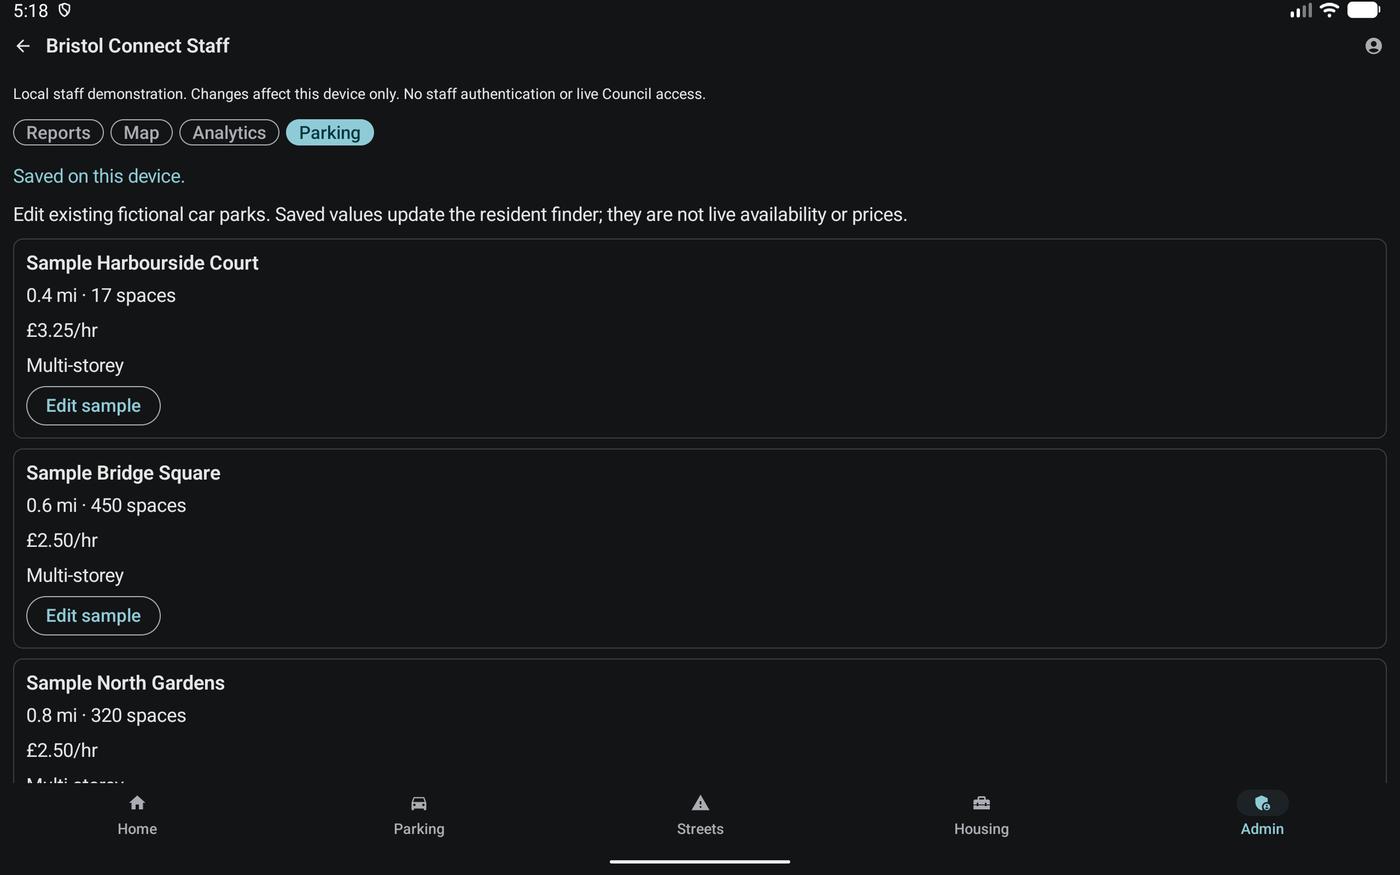
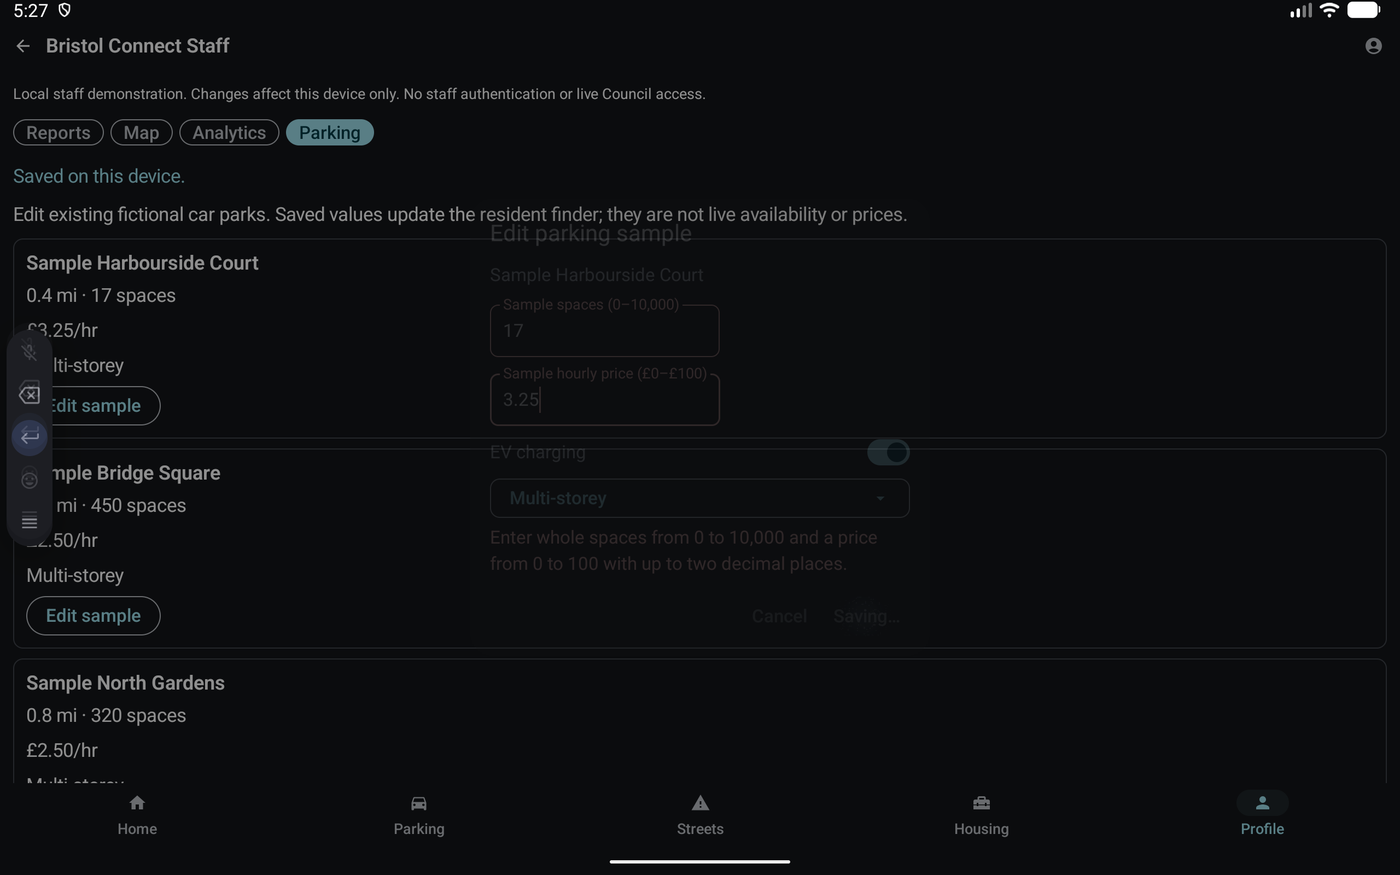
Place Admin behind a minimal Profile handover placeholder [skip ci]

diff --git a/app/src/main/java/com/example/mobileapplication/ui/navigation/BristolCityCompanionApp.kt b/app/src/main/java/com/example/mobileapplication/ui/navigation/BristolCityCompanionApp.kt
@@ -59,7 +59,8 @@ fun BristolCityCompanionApp() {
         topBar = {
             if (!isParking && !isStreets && !isHousing && !isCleanAirZone && currentDestination?.route != AppDestination.Admin.route) {
             CenterAlignedTopAppBar(
-                title = { Text("Bristol City Companion") },
+                title = { if (currentDestination?.route == AppDestination.Profile.route)
+                    Text(stringResource(R.string.profile_nav_title)) else Text("Bristol City Companion") },
                 colors = TopAppBarDefaults.centerAlignedTopAppBarColors(
                     containerColor = MaterialTheme.colorScheme.primaryContainer
                 )
@@ -72,7 +73,8 @@ fun BristolCityCompanionApp() {
                 AppDestination.bottomNavigation.forEach { destination ->
                     NavigationBarItem(
                         // hierarchy also matches nested graphs, so Housing stays selected on every housing screen.
-                        selected = currentDestination?.hierarchy?.any { it.route == destination.route } == true,
+                        selected = currentDestination?.hierarchy?.any { it.route == destination.route } == true ||
+                            (destination == AppDestination.Profile && currentDestination?.route == AppDestination.Admin.route),
                         colors = NavigationBarItemDefaults.colors(
                             selectedIconColor = MaterialTheme.colorScheme.primary,
                             selectedTextColor = MaterialTheme.colorScheme.primary,
@@ -110,6 +112,15 @@ fun BristolCityCompanionApp() {
                     // TEMPORARY: opens the Clean Air Zone checker for testing until Home has service tiles.
                     TextButton(onClick = { navController.navigate(CLEAN_AIR_ZONE_GRAPH_ROUTE) }) {
                         Text(stringResource(R.string.temp_open_clean_air_zone))
+                    }
+                }
+            }
+            composable(AppDestination.Profile.route) {
+                // Integration placeholder only: Mohammad owns the full Profile dashboard.
+                // TODO(Mohammad): retain Omar's Admin entry here when implementing Profile.
+                Column(Modifier.fillMaxSize().padding(16.dp)) {
+                    TextButton(onClick = { navController.navigate(AppDestination.Admin.route) }) {
+                        Text(stringResource(R.string.profile_admin_entry))
                     }
                 }
             }

diff --git a/app/src/main/java/com/example/mobileapplication/ui/navigation/AppDestination.kt b/app/src/main/java/com/example/mobileapplication/ui/navigation/AppDestination.kt
@@ -4,6 +4,7 @@ import androidx.compose.material.icons.Icons
 import androidx.compose.material.icons.filled.DirectionsCar
 import androidx.compose.material.icons.filled.Home
 import androidx.compose.material.icons.filled.AdminPanelSettings
+import androidx.compose.material.icons.filled.Person
 import androidx.compose.material.icons.filled.HomeRepairService
 import androidx.compose.material.icons.filled.ReportProblem
 import androidx.compose.ui.graphics.vector.ImageVector
@@ -20,14 +21,16 @@ sealed class AppDestination(
         Streets -> R.string.nav_streets
         Housing -> R.string.nav_housing
         Admin -> R.string.admin_nav_title
+        Profile -> R.string.profile_nav_title
     }
     data object Home : AppDestination("home", "Home", Icons.Default.Home)
     data object Parking : AppDestination("parking", "Parking", Icons.Default.DirectionsCar)
     data object Streets : AppDestination("streets", "Streets", Icons.Default.ReportProblem)
     data object Housing : AppDestination("housing", "Housing", Icons.Default.HomeRepairService)
     data object Admin : AppDestination("staff", "Admin", Icons.Default.AdminPanelSettings)
+    data object Profile : AppDestination("profile", "Profile", Icons.Default.Person)
 
     companion object {
-        val bottomNavigation get() = listOf(Home, Parking, Streets, Housing, Admin)
+        val bottomNavigation get() = listOf(Home, Parking, Streets, Housing, Profile)
     }
 }

diff --git a/app/src/androidTest/java/com/example/mobileapplication/DashboardUiTest.kt b/app/src/androidTest/java/com/example/mobileapplication/DashboardUiTest.kt
@@ -15,7 +15,7 @@ import java.io.File
 class DashboardUiTest {
     @get:Rule val ui = createAndroidComposeRule<MainActivity>()
     private fun tap(text: String) {
-        val node = if (text in listOf("Home", "Parking", "Streets", "Housing", "Admin"))
+        val node = if (text in listOf("Home", "Parking", "Streets", "Housing", "Profile"))
             ui.onNode(hasText(text) and isSelectable()) else ui.onNodeWithText(text)
         if (!node.isDisplayed()) node.performScrollTo()
         node.performClick()
@@ -39,7 +39,10 @@ class DashboardUiTest {
         val park = parking.carParks.first()
         val desired = if (original == StreetStatus.FIXED) StreetStatus.SUBMITTED else StreetStatus.FIXED
         try {
-            tap("Admin")
+            tap("Profile")
+            ui.onNodeWithText("Admin dashboard").assertIsDisplayed()
+            screenshot("01-profile-admin-entry")
+            tap("Admin dashboard")
             ui.waitUntil(10000) { ui.onAllNodesWithText("All statuses").fetchSemanticsNodes().isNotEmpty() }
             screenshot("02-staff-reports")
             // Select just the first report using its current category and status filters.

diff --git a/tools/prepare-design-review.py b/tools/prepare-design-review.py
@@ -61,9 +61,9 @@ document.add_paragraph('Approved composites: Home 2; Parking 3–4; Streets 5–
 
 document.add_page_break()
 document.add_heading('Appendix D Implementation review', 1)
-document.add_paragraph('Ownership clarified by Omar on 25 November 2026: Omar owns Admin/Staff, Parking and Streets. Mohammad owns Home, Profile, Housing and Clean Air Zone. The agent-created Home/Profile implementation has been removed. Home retains its pre-existing placeholder and Profile is not implemented in this branch. Admin has a direct navigation tab.')
+document.add_paragraph('Ownership clarified by Omar on 25 November 2026: Omar owns Admin/Staff, Parking and Streets. Mohammad owns Home, Profile, Housing and Clean Air Zone. The agent-created Home/Profile implementation has been removed. Home retains its pre-existing placeholder and the full Profile dashboard is not implemented in this branch. Admin is reached through Profile → Admin dashboard; Profile is only a navigation placeholder.')
 document.add_paragraph('The completed Parking and Streets journeys use local demonstration data. Maps show real OpenStreetMap tiles but sample car parks and a fictional permit zone. A Street Report’s location label can be edited; its map pin remains a fixed illustrative location. This distinction avoids presenting sample coordinates as GPS reports.')
-document.add_paragraph('Home and Profile remain Mohammad’s responsibility. This branch restores the pre-existing Home placeholder and removes the agent-created Home/Profile implementation. Admin is accessible from a dedicated navigation tab. This temporary integration entry replaces the proposed Profile slot until the group agrees its final resident/staff navigation.')
+document.add_paragraph('Home and Profile remain Mohammad’s responsibility. This branch restores the pre-existing Home placeholder and removes the agent-created Home/full Profile dashboard implementation. Profile is the fifth navigation tab and contains only an Admin dashboard entry. This is a navigation placeholder, not the Profile dashboard implementation. Mohammad should retain this entry when building his full Profile dashboard.')
 document.add_paragraph('The Staff demonstration follows mockup 11: report filters, cards, status changes, map and summary counts. Status updates are saved before being published to the resident views. At Omar’s request a Parking tab also edits spaces, hourly price, EV charging and category for the existing fictional car parks. It has validation and local persistence. It is not a secured production staff portal.')
 document.add_paragraph('Housing and CAZ remain Mohammad’s responsibilities. Housing photos remain unavailable in the current build; the implemented flow must not be described as complete photo support. Saved favourites, Firebase authentication, Arabic translation and stretch services are not part of the implemented MVP. RTL layout tests are not translation tests.')
 document.add_paragraph('The original research references and access dates are retained from the source design. Final implementation evidence, device configurations and limits are in docs/evidence/finalization and docs/evidence/phase4. Both members should review this edition against their agreed scope and the supplied Blackboard template before submission.')

diff --git a/contributions.md b/contributions.md
@@ -10,11 +10,11 @@ Update this file throughout the project. The final mini report should refer to t
 | Mohammad AlAbwah | Home dashboard, Profile, Housing repair report/progress, Clean Air Zone checker, rent account/reminder, local data persistence for their features. |
 | Omar Abdelatty + Mohammad AlAbwah | Navigation Compose integration, theme/design components, integration, testing, design document and video. |
 
-Ownership clarified by Omar on 25 November 2026: Home and Profile belong to Mohammad; Admin belongs to Omar. At Omar's request the agent-created Home/Profile implementation has been removed. Home retains its pre-existing placeholder; Profile is not implemented on this branch. Admin has a direct navigation tab. Mohammad's existing Housing and CAZ code is preserved.
+Ownership clarified by Omar on 25 November 2026: Home and Profile belong to Mohammad; Admin belongs to Omar. At Omar's request the agent-created Home/Profile implementation has been removed. Home retains its pre-existing placeholder; the full Profile dashboard is not implemented on this branch. Admin is reached through Profile → Admin dashboard; Profile is only a navigation placeholder. Mohammad's existing Housing and CAZ code is preserved.
 
 ## Contribution log
 
-Final handover (2026-11-25), Omar scope with coding-agent assistance: completed the approved Admin/Staff dashboard. The agent-created Home/Profile implementation was removed at Omar's request; the original Home placeholder is restored and Admin has its own navigation entry. Staff filters/maps/counts and Room-backed status changes share the resident reports flow. Added locally saved parking sample edits (spaces, hourly price, EV flag and category), validation and resident finder/details refresh. Fresh system-gallery testing exposed and fixed navigation off the main thread after a successful photo copy. Added storage/error/update tests, real gallery/Maps checks, responsive Admin evidence and Android CI workflows. Current records show 197 unit tests with no failures, successful debug/release builds and lint with 52 warnings/no errors; core device XML has 9 passes and 6 configured skips, external checks separately pass 2/2 and responsive Admin check passes 1/1. Prepared a local unsigned mini report, design review copy, timed video guide and packaging script; no human review, signature or recording is claimed. See [final evidence](docs/evidence/finalization/README.md). Generated assessment identifiers/documents remain local rather than published to this public repository.
+Final handover (2026-11-25), Omar scope with coding-agent assistance: completed the approved Admin/Staff dashboard. The agent-created Home/Profile implementation was removed at Omar's request; the original Home placeholder is restored and Admin is reached through the minimal Profile placeholder. Staff filters/maps/counts and Room-backed status changes share the resident reports flow. Added locally saved parking sample edits (spaces, hourly price, EV flag and category), validation and resident finder/details refresh. Fresh system-gallery testing exposed and fixed navigation off the main thread after a successful photo copy. Added storage/error/update tests, real gallery/Maps checks, responsive Admin evidence and Android CI workflows. Current records show 197 unit tests with no failures, successful debug/release builds and lint with 52 warnings/no errors; core device XML has 9 passes and 6 configured skips, external checks separately pass 2/2 and responsive Admin check passes 1/1. Prepared a local unsigned mini report, design review copy, timed video guide and packaging script; no human review, signature or recording is claimed. See [final evidence](docs/evidence/finalization/README.md). Generated assessment identifiers/documents remain local rather than published to this public repository.
 
 Phase 4 follow-up (2026-11-22), Omar Abdelatty feature; coding agent operated the API 37 emulator: locally combined Mohammad's existing Phase 3 branch in merge `7f21003`, preserving its authored history. Added persistent Street Reports in the shared Room database (schema 2 and migration preserving Housing), save-error recovery and main-thread confirmation navigation. Fixed short landscape Parking/permit layouts using adjacent panels, updated the on-device data disclaimer, and corrected Compose density access in the permit map. Combined debug/release builds and lint pass; 194 unit tests have zero failures/errors. Device verification covers Room reopen/migration, core Parking/Streets/rent navigation, Housing repair/progress, CAZ prototype outcomes, large-font/dark mode, simulated tablet size, RTL, landscape/offline, permission denial, camera capture/switch/removal, location sorting and reminder persistence/cancellation after reboot. See [Phase 4 evidence, limits and walkthrough preparation](docs/evidence/phase4/README.md). PR #5 is merged at `1887c29`; this supersedes its historical pending-merge statements, not the need for review of this new combined branch. No peer approval or merge of the Phase 4 branch to main is claimed.
 

diff --git a/docs/evidence/finalization/README.md b/docs/evidence/finalization/README.md
@@ -8,11 +8,11 @@ Post-integration `test assembleDebug assembleRelease lintDebug` passed locally. 
 
 ## Ownership
 
-Omar owns Admin/Staff, Parking and Streets. Mohammad owns Home, Profile, Housing and CAZ. The agent-created Home/Profile implementation has been removed at Omar's request. The original Home placeholder is restored and Profile is not implemented. Admin has its own navigation tab. The checks below cover the combined build.
+Omar owns Admin/Staff, Parking and Streets. Mohammad owns Home, Profile, Housing and CAZ. The agent-created Home/Profile implementation has been removed at Omar's request. The original Home placeholder is restored and the full Profile dashboard is not implemented. Admin is reached through Profile → Admin dashboard; Profile is only a navigation placeholder. The checks below cover the combined build.
 
 ## Completed scope
 
-- The Admin tab opens the Staff demonstration from mockup 11. Reports have status/category filters, a live filtered count, photos/details and saved status updates. Map displays filtered illustrative locations; Analytics counts the same filtered reports.
+- Profile → Admin dashboard opens the Staff demonstration from mockup 11. Reports have status/category filters, a live filtered count, photos/details and saved status updates. Map displays filtered illustrative locations; Analytics counts the same filtered reports.
 - Staff Parking edits the eight existing fictional car parks' spaces, hourly price, EV flag and category. Invalid input is rejected. Preferences are saved off the UI thread before the shared flow updates the resident finder/details. A failed save retains the editing dialog and values.
 - Staff report status updates save through Room before publishing the shared report flow. The resident status/list reads that same data. No database schema change is needed for the existing status column.
 - Fresh gallery verification found that the private photo copy succeeded but navigation after the asynchronous copy could run off the main thread. Launching the gallery callback coroutine explicitly on `Dispatchers.Main.immediate` fixed the return to the form; attachment/removal passed on retest.
@@ -20,10 +20,13 @@ Omar owns Admin/Staff, Parking and Streets. Mohammad owns Home, Profile, Housing
 
 The current records below supersede the earlier Home/Profile completion and test claims. Those screens and their added test/screenshots have been removed.
 
+Admin placement update: Profile now contains only an **Admin dashboard** button. This is the requested integration marker for Mohammad, not a completed Profile dashboard. The dedicated entry test/results supersede the older direct-Admin entry used by the earlier core run.
+
 ## Actual checks
 
 | Check | Result and evidence |
 |---|---|
+| Profile entry placeholder | Profile contains only an Admin dashboard button; opening it reaches Staff and the existing report/parking edit journey passes. Debug/release builds and lint pass. This leaves the full Profile dashboard for Mohammad. [Entry](01-profile-admin-entry.png), [dedicated result](profile-entry-results.xml). |
 | Build/unit/lint | `gradlew.bat test assembleDebug assembleRelease lintDebug connectedDebugAndroidTest '-Pandroid.injected.androidTest.leaveApksInstalledAfterRun=true'` succeeded. 197 JVM unit tests, zero failures/errors. Lint: 52 warnings, zero errors. Debug/release APKs build. |
 | Default device suite | Retained XML contains 15 test cases: 9 passed, 6 setup-dependent cases skipped, zero failures/errors. The Gradle console's progress totals differ from the actual XML; this record uses the XML. See [core results](core-results.xml). |
 | Staff/resident integration | Changed a report status, checked the repository/resident list, exercised map/analytics, rejected invalid parking input, saved spaces/price and checked resident finder data. Tests restore the original report status and parking sample. [Staff](02-staff-reports.png), [updated status](03-status-updated.png), [map](04-staff-map.png), [analytics](05-staff-analytics.png), [parking edit](06-parking-updated.png), [resident report](07-resident-status.png). |

diff --git a/docs/submission/omar-walkthrough.md b/docs/submission/omar-walkthrough.md
@@ -4,11 +4,11 @@ Target group runtime: 7 minutes 30 seconds, leaving 30 seconds below the brief's
 
 | Time | Speaker | Demonstration and explanation |
 |---|---|---|
-| 0:00–0:20 | Mohammad | Introduce Bristol Connect as a native Android pilot with local/sample data. State the ownership split and show navigation. Home remains a placeholder in this branch; do not claim a completed Home/Profile implementation. |
+| 0:00–0:20 | Mohammad | Introduce Bristol Connect as a native Android pilot with local/sample data. State the ownership split and show navigation. Home remains a placeholder in this branch; do not claim a completed Home/full Profile dashboard implementation. |
 | 0:20–1:15 | Omar | Parking: filter EV charging, open matching details, confirm external directions, show location on request and explain the denial fallback. Explain `ParkingViewModel`, immutable UI state, repository filtering and haversine distance sorting. |
 | 1:15–1:50 | Omar | Permit: show fictional Zone CM, permit expiry and reminder. Explain why one permit uses DataStore, why WorkManager survives process restarts, and why notifications require consent. |
 | 1:50–2:45 | Omar | Streets: show invalid submission, choose a category, enter a fictional description, attach/remove an optional photo and edit the location label. Submit, show the reference and My Reports. Explain validation, private photo copies, Room and save-before-confirmation. The map pin is illustrative, not GPS. |
-| 2:45–3:35 | Omar | Open the Admin tab. Filter reports, update a report status and show the matching resident status. Show report map/analytics, then change sample parking spaces and show the finder update. Explain shared repository flows and saving before publishing an update. |
+| 2:45–3:35 | Omar | Open Profile → Admin dashboard. Filter reports, update a report status and show the matching resident status. Show report map/analytics, then change sample parking spaces and show the finder update. Explain shared repository flows and saving before publishing an update. |
 | 3:35–4:00 | Omar | Show `StreetStorageTest`, `ParkingAdminTest`, migration/device results and one responsive screenshot. Explain one defect found and fixed: confirmation on the main thread or gallery-return navigation. State emulator/physical-device limits honestly. |
 | 4:00–6:50 | Mohammad | Explain the planned Home/Profile work and any implementation Mohammad completes, then demonstrate Housing repair/progress, saved Room data, rent/history/reminders, and CAZ validation/prototype outcomes/official checker. Mohammad chooses his code examples and confirms his contribution. |
 | 6:50–7:30 | Both | Explain prototype limitations, testing evidence and next steps. State that no live Council reports, payments, official permit boundaries or authoritative CAZ decisions are provided. |

diff --git a/docs/technical-decisions.md b/docs/technical-decisions.md
@@ -37,7 +37,7 @@ app/
 
 ## Guardrails
 
-Ownership correction from Omar (25 November 2026): Home dashboard and Profile belong to Mohammad; Admin/Staff belongs to Omar, alongside Parking and Streets. The agent-created Home/Profile implementation was removed at Omar's request. The Home placeholder is restored and Profile is not implemented on this branch. Admin uses its own navigation tab; the fifth slot temporarily represents Admin rather than the proposed Profile screen.
+Ownership correction from Omar (25 November 2026): Home dashboard and Profile belong to Mohammad; Admin/Staff belongs to Omar, alongside Parking and Streets. The agent-created Home/Profile implementation was removed at Omar's request. The Home placeholder is restored and the full Profile dashboard is not implemented on this branch. Profile is the fifth navigation tab. Its minimal placeholder contains only an Admin dashboard entry; Mohammad owns the full Profile dashboard and should retain this entry when building it.
 
 Final Omar scope (2026-11-25): the user requested the Staff dashboard and parking sample administration. Staff is an explicitly labelled local demonstration accessed through Profile, with no production authentication or live Council access. It uses the same `StreetReportRepository` singleton/Room table as resident screens; only successful writes are published. Parking keeps its eight resource-based fictional locations and stores validated staff overrides in private preferences; a shared state flow refreshes the finder/details. Writes run off the UI thread. These implementation changes and retained limitations are described in the local design review edition. Housing/CAZ implementations were not changed by this work.
 

diff --git a/docs/implementation-plan.md b/docs/implementation-plan.md
@@ -12,7 +12,11 @@ Omar clarified this allocation on 25 November 2026. It supersedes earlier generi
 | Mohammad AlAbwah | Home dashboard, Profile, Housing and Clean Air Zone |
 | Both | Navigation integration, shared components, testing and assessment deliverables |
 
-The agent-created Home/Profile implementation has been removed at Omar's request. Home retains its pre-existing placeholder and Profile is not implemented in this branch. Admin is directly accessible through its own navigation tab.
+The agent-created Home/Profile implementation has been removed at Omar's request. Home retains its pre-existing placeholder and the full Profile dashboard is not implemented in this branch. Admin is reached through Profile → Admin dashboard; the full Profile dashboard remains Mohammad’s work.
+
+## Profile handover to Mohammad
+
+Omar wants his Admin dashboard to be accessible from the Profile dashboard. The current Profile route is deliberately just a placeholder containing an **Admin dashboard** button. Mohammad owns the full Profile UI, profile data and settings; when replacing the placeholder, retain this entry and navigate to the existing `staff` route. The code contains the matching `TODO(Mohammad)` at the integration point. No account, settings or full Profile dashboard has been implemented here.
 
 ## Working rules
 

diff --git a/README.md b/README.md
@@ -30,7 +30,7 @@ See `docs/` for requirements, technical decisions and the test plan. See `contri
 
 ## Local staff demonstration
 
-Open the **Admin** navigation tab to filter Street Reports, inspect their map/summary, change local statuses and edit the existing parking samples. Updates are saved on this device and appear in the resident views. This is a demonstration, without staff authentication or a connection to Council systems.
+Open **Profile → Admin dashboard** to filter Street Reports, inspect their map/summary, change local statuses and edit the existing parking samples. Updates are saved on this device and appear in the resident views. This is a demonstration, without staff authentication or a connection to Council systems.
 
 Final checks and limitations are indexed in [Omar's final verification](docs/evidence/finalization/README.md). Assessment packaging and the under-eight-minute walkthrough are in [submission instructions](docs/submission/README.md). Generated reports and ZIPs are kept local.
 

diff --git a/docs/submission/README.md b/docs/submission/README.md
@@ -15,7 +15,7 @@ The student number is held only in the local generated report/package. Group ID 
 
 ## Ownership
 
-Omar: Admin/Staff dashboard, Parking and Streets. Mohammad: Home dashboard, Profile, Housing and Clean Air Zone. Shared work covers navigation integration, common components, testing and assessment deliverables. The agent-created Home/Profile implementation has been removed; Home is back to its pre-existing placeholder and Profile is not implemented. Admin has its own navigation tab.
+Omar: Admin/Staff dashboard, Parking and Streets. Mohammad: Home dashboard, Profile, Housing and Clean Air Zone. Shared work covers navigation integration, common components, testing and assessment deliverables. The agent-created Home/Profile implementation has been removed; Home is back to its pre-existing placeholder and the full Profile dashboard is not implemented. Admin is reached through Profile → Admin dashboard; Profile is only a navigation placeholder.
 
 ## Prepared material
 
